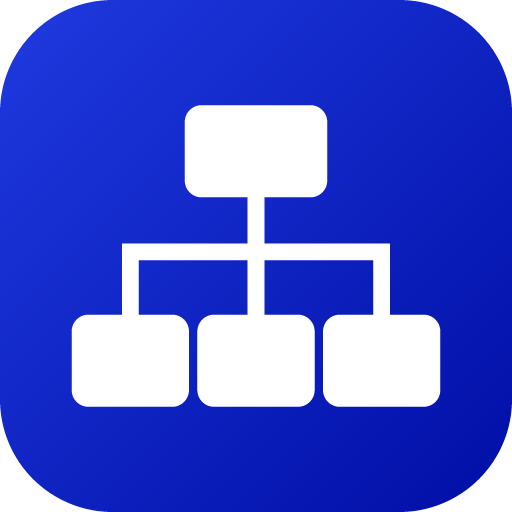
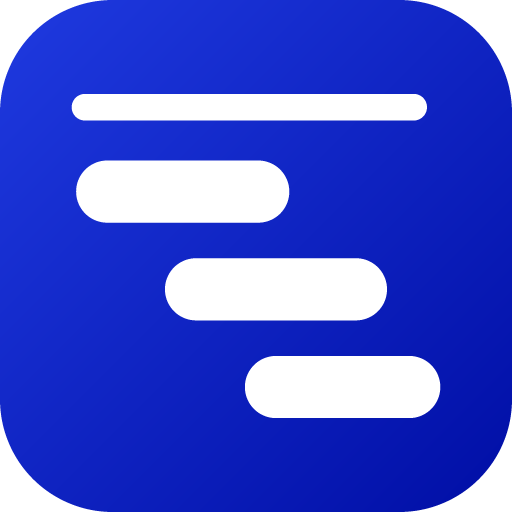
feat: WBS のアイコンをガントチャートの絵にする（task #548・ADR-0057）
Claude-Session: https://claude.ai/code/session_01NWaG72MUZheJbpsWi7qb5T

Changed region(s): [[0.125, 0.1562, 0.875, 0.8438]]

diff --git a/scripts/generate_pwa_icons.py b/scripts/generate_pwa_icons.py
@@ -1,13 +1,14 @@
-"""PWA アイコン（`frontend/public/`）を生成する（task #192・ADR-0028）。
+"""PWA アイコン（`frontend/public/`）を生成する（task #192・ADR-0028。図柄は ADR-0057）。
 
 アイコンの正本はこのスクリプト（配色と図形の座標）であり、出力物は生成結果として
 コミットする。標準ライブラリだけで PNG を書き出すため、追加の依存や外部の
 ラスタライザは要らない（CI・手元のどちらでも同じ結果になる）。雛形（fastapitemplate）の
-`scripts/generate_pwa_icons.py` と同じ作り。図柄だけが違う。
+`scripts/generate_pwa_icons.py` と同じ作り。図柄と色だけが違う。
 
     python3 scripts/generate_pwa_icons.py
 
-図柄: WBS（作業分解図）の木。上に 1 つの箱、線で下の 3 つの箱へ分かれる。
+図柄: ガントチャート。上に日付の目盛り、その下に段々に右へずれる帯 3 本（task #548。前は WBS の木だったが
+組織図に見えた）。色は画面の主色の青のまま。Tracker（緑青のストップウォッチ）・Scheduler（紫のカレンダー）と見分ける。
 
 出力:
     favicon.svg                  ブラウザのタブ用（角丸・ベクタ）
@@ -18,7 +19,8 @@
 
 画面の中の像（ログイン画面・メニューの上。`frontend/src/components/AppMark.tsx`）も
 favicon.svg をそのまま読む（ADR-0040）。図柄や色を変えるときはここだけを直して出力し直せばよく、
-画面側に同じ絵を書き起こさない。
+画面側に同じ絵を書き起こさない。⚠ 色を変えるときは `frontend/src/theme.ts` の ds.primary 系・
+`frontend/index.html` の theme-color・manifest の theme_color も揃える。
 """
 
 from __future__ import annotations
@@ -32,7 +34,7 @@ from typing import NamedTuple
 OUTPUT_DIR = Path(__file__).resolve().parent.parent / "frontend" / "public"
 
 # 配色。画面の主色（`frontend/src/theme.ts` の ds.primary = #0017C1。manifest の theme_color）を
-# 挟む形の対角グラデーション。
+# 挟む形の対角グラデーション。終わりの色は ds.primaryHover。
 GRADIENT_START = (0x1F, 0x3A, 0xE0)
 GRADIENT_END = (0x00, 0x0E, 0xA5)
 MARK_COLOR = (0xFF, 0xFF, 0xFF)
@@ -42,28 +44,46 @@ CORNER_RADIUS_RATIO = 0.22
 
 
 class Box(NamedTuple):
-    """図柄の部品 1 つ（100x100 の座標系の矩形と、その角の半径）。"""
+    """図柄の部品: 角丸の矩形（100x100 の座標系）。"""
 
     x0: float
     y0: float
     x1: float
     y1: float
     radius: float = 0.0
+    color: tuple[int, int, int] = MARK_COLOR
 
 
-# WBS の木。100x100 の座標系で定義し、各アイコンの大きさへ拡大縮小する。
-MARK_BOXES = (
-    Box(33.0, 12.0, 67.0, 34.0, 4.0),  # 上の箱（プロジェクト）
-    Box(48.0, 33.0, 52.0, 47.0),  # 上の箱から下ろす線
-    Box(18.0, 45.0, 82.0, 49.0),  # 横に渡す線
-    Box(18.0, 47.0, 22.0, 63.0),  # 左へ下ろす線
-    Box(48.0, 47.0, 52.0, 63.0),  # 中へ下ろす線
-    Box(78.0, 47.0, 82.0, 63.0),  # 右へ下ろす線
-    Box(6.0, 62.0, 34.0, 84.0, 4.0),  # 下の箱（左）
-    Box(36.0, 62.0, 64.0, 84.0, 4.0),  # 下の箱（中）
-    Box(66.0, 62.0, 94.0, 84.0, 4.0),  # 下の箱（右）
+class Ring(NamedTuple):
+    """図柄の部品: 輪（inner が 0 なら塗りつぶしの円）。"""
+
+    cx: float
+    cy: float
+    outer: float
+    inner: float = 0.0
+    color: tuple[int, int, int] = MARK_COLOR
+
+
+class Bar(NamedTuple):
+    """図柄の部品: 両端の丸い棒（(x0, y0) と (x1, y1) を結ぶ線分を half_width だけ太らせたもの）。"""
+
+    x0: float
+    y0: float
+    x1: float
+    y1: float
+    half_width: float
+    color: tuple[int, int, int] = MARK_COLOR
+
+
+Shape = Box | Ring | Bar
+
+# ガントチャート。100x100 の座標系で定義し、外接矩形を各アイコンの大きさへ拡大縮小する。
+MARK_SHAPES: tuple[Shape, ...] = (
+    Box(10.0, 12.0, 90.0, 18.0, 3.0),  # 日付の目盛り
+    Bar(18.0, 34.0, 52.0, 34.0, 7.0),  # 帯（1 つ目のタスク）
+    Bar(38.0, 56.0, 74.0, 56.0, 7.0),  # 帯（2 つ目）
+    Bar(56.0, 78.0, 86.0, 78.0, 7.0),  # 帯（3 つ目）
 )
-MARK_BOUNDS = (6.0, 12.0, 94.0, 84.0)  # 上の部品の外接矩形 (x0, y0, x1, y1)
 
 # 1 ピクセルあたりの走査点数（アンチエイリアス用のスーパーサンプリング）。
 SAMPLES_PER_AXIS = 4
@@ -90,22 +110,53 @@ ICONS = (
 )
 
 
-def _scaled_mark(size: int, width_ratio: float) -> tuple[Box, ...]:
-    """図柄の部品を、一辺 *size* のアイコン中央に置いた座標へ変換する。"""
-    bound_x0, bound_y0, bound_x1, bound_y1 = MARK_BOUNDS
-    scale = size * width_ratio / (bound_x1 - bound_x0)
+def _bounds(shape: Shape) -> tuple[float, float, float, float]:
+    """部品の外接矩形 (x0, y0, x1, y1)。"""
+    if isinstance(shape, Ring):
+        return (shape.cx - shape.outer, shape.cy - shape.outer, shape.cx + shape.outer, shape.cy + shape.outer)
+    if isinstance(shape, Bar):
+        width = shape.half_width
+        return (
+            min(shape.x0, shape.x1) - width,
+            min(shape.y0, shape.y1) - width,
+            max(shape.x0, shape.x1) + width,
+            max(shape.y0, shape.y1) + width,
+        )
+    return (shape.x0, shape.y0, shape.x1, shape.y1)
+
+
+def _mark_bounds() -> tuple[float, float, float, float]:
+    """図柄全体の外接矩形。"""
+    corners = [_bounds(shape) for shape in MARK_SHAPES]
+    return (
+        min(corner[0] for corner in corners),
+        min(corner[1] for corner in corners),
+        max(corner[2] for corner in corners),
+        max(corner[3] for corner in corners),
+    )
+
+
+def _scaled_mark(size: int, width_ratio: float) -> tuple[Shape, ...]:
+    """図柄の部品を、一辺 *size* のアイコン中央に置いた座標へ変換する（長い辺を width_ratio に合わせる）。"""
+    bound_x0, bound_y0, bound_x1, bound_y1 = _mark_bounds()
+    scale = size * width_ratio / max(bound_x1 - bound_x0, bound_y1 - bound_y0)
     offset_x = (size - (bound_x1 - bound_x0) * scale) / 2 - bound_x0 * scale
     offset_y = (size - (bound_y1 - bound_y0) * scale) / 2 - bound_y0 * scale
-    return tuple(
-        Box(
-            box.x0 * scale + offset_x,
-            box.y0 * scale + offset_y,
-            box.x1 * scale + offset_x,
-            box.y1 * scale + offset_y,
-            box.radius * scale,
-        )
-        for box in MARK_BOXES
-    )
+
+    def point(x: float, y: float) -> tuple[float, float]:
+        return (x * scale + offset_x, y * scale + offset_y)
+
+    scaled: list[Shape] = []
+    for shape in MARK_SHAPES:
+        if isinstance(shape, Ring):
+            scaled.append(Ring(*point(shape.cx, shape.cy), shape.outer * scale, shape.inner * scale, shape.color))
+        elif isinstance(shape, Bar):
+            scaled.append(
+                Bar(*point(shape.x0, shape.y0), *point(shape.x1, shape.y1), shape.half_width * scale, shape.color)
+            )
+        else:
+            scaled.append(Box(*point(shape.x0, shape.y0), *point(shape.x1, shape.y1), shape.radius * scale, shape.color))
+    return tuple(scaled)
 
 
 def _inside_box(box: Box, x: float, y: float) -> bool:
@@ -117,6 +168,20 @@ def _inside_box(box: Box, x: float, y: float) -> bool:
     near_x = min(max(x, box.x0 + box.radius), box.x1 - box.radius)
     near_y = min(max(y, box.y0 + box.radius), box.y1 - box.radius)
     return (x - near_x) ** 2 + (y - near_y) ** 2 <= box.radius**2
+
+
+def _inside(shape: Shape, x: float, y: float) -> bool:
+    """点 (*x*, *y*) が部品 *shape* の内側にあるか。"""
+    if isinstance(shape, Ring):
+        distance = (x - shape.cx) ** 2 + (y - shape.cy) ** 2
+        return shape.inner**2 <= distance <= shape.outer**2
+    if isinstance(shape, Bar):
+        dx, dy = shape.x1 - shape.x0, shape.y1 - shape.y0
+        length = dx * dx + dy * dy
+        ratio = 0.0 if length == 0 else min(max(((x - shape.x0) * dx + (y - shape.y0) * dy) / length, 0.0), 1.0)
+        near_x, near_y = shape.x0 + dx * ratio, shape.y0 + dy * ratio
+        return (x - near_x) ** 2 + (y - near_y) ** 2 <= shape.half_width**2
+    return _inside_box(shape, x, y)
 
 
 def _inside_rounded_square(size: int, radius: float, x: float, y: float) -> bool:
@@ -138,12 +203,13 @@ def _background_color(size: int, x: float, y: float) -> tuple[int, int, int]:
     )
 
 
-def _sample(spec: IconSpec, mark: tuple[Box, ...], x: float, y: float) -> tuple[int, int, int, int]:
-    """1 走査点の色。背景の外側は透明、図柄の内側は白。"""
+def _sample(spec: IconSpec, mark: tuple[Shape, ...], x: float, y: float) -> tuple[int, int, int, int]:
+    """1 走査点の色。背景の外側は透明、図柄の内側は部品の色（後に並べた部品が上）。"""
     if spec.rounded and not _inside_rounded_square(spec.size, spec.size * CORNER_RADIUS_RATIO, x, y):
         return (0, 0, 0, 0)
-    if any(_inside_box(box, x, y) for box in mark):
-        return (*MARK_COLOR, 255)
+    for shape in reversed(mark):
+        if _inside(shape, x, y):
+            return (*shape.color, 255)
     return (*_background_color(spec.size, x, y), 255)
 
 
@@ -151,7 +217,7 @@ def _sample(spec: IconSpec, mark: tuple[Box, ...], x: float, y: float) -> tuple[
 _SAMPLE_OFFSETS = tuple((index + 0.5) / SAMPLES_PER_AXIS for index in range(SAMPLES_PER_AXIS))
 
 
-def _pixel(spec: IconSpec, mark: tuple[Box, ...], column: int, row: int) -> bytes:
+def _pixel(spec: IconSpec, mark: tuple[Shape, ...], column: int, row: int) -> bytes:
     """1 ピクセルの RGBA。走査点の平均を取ってアンチエイリアスする。"""
     red = green = blue = alpha = 0
     for offset_y in _SAMPLE_OFFSETS:
@@ -167,7 +233,7 @@ def _pixel(spec: IconSpec, mark: tuple[Box, ...], column: int, row: int) -> byte
     return bytes((round(red / alpha), round(green / alpha), round(blue / alpha), round(alpha / SAMPLES_PER_AXIS**2)))
 
 
-def _pixel_row(spec: IconSpec, mark: tuple[Box, ...], row: int) -> bytearray:
+def _pixel_row(spec: IconSpec, mark: tuple[Shape, ...], row: int) -> bytearray:
     """1 行分の RGBA バイト列。"""
     line = bytearray()
     for column in range(spec.size):
@@ -206,15 +272,33 @@ def _hex_color(color: tuple[int, int, int]) -> str:
     return f"#{red:02x}{green:02x}{blue:02x}"
 
 
+def _svg_element(shape: Shape) -> str:
+    """部品 1 つを SVG の要素にする。"""
+    fill = _hex_color(shape.color)
+    if isinstance(shape, Ring):
+        if shape.inner <= 0:
+            return f'  <circle cx="{shape.cx:.1f}" cy="{shape.cy:.1f}" r="{shape.outer:.1f}" fill="{fill}"/>'
+        middle = (shape.outer + shape.inner) / 2
+        return (
+            f'  <circle cx="{shape.cx:.1f}" cy="{shape.cy:.1f}" r="{middle:.1f}" fill="none"'
+            f' stroke="{fill}" stroke-width="{shape.outer - shape.inner:.1f}"/>'
+        )
+    if isinstance(shape, Bar):
+        return (
+            f'  <line x1="{shape.x0:.1f}" y1="{shape.y0:.1f}" x2="{shape.x1:.1f}" y2="{shape.y1:.1f}"'
+            f' stroke="{fill}" stroke-width="{shape.half_width * 2:.1f}" stroke-linecap="round"/>'
+        )
+    return (
+        f'  <rect x="{shape.x0:.1f}" y="{shape.y0:.1f}" width="{shape.x1 - shape.x0:.1f}"'
+        f' height="{shape.y1 - shape.y0:.1f}" rx="{shape.radius:.1f}" fill="{fill}"/>'
+    )
+
+
 def _write_favicon_svg() -> None:
     """タブ用の favicon.svg。PNG と同じ配色・同じ図形・同じ配置をベクタで書き出す。"""
     canvas = 512
     width_ratio = ICONS[0].mark_width_ratio  # 通常アイコンと同じ大きさに合わせる
-    rects = "\n".join(
-        f'  <rect x="{box.x0:.1f}" y="{box.y0:.1f}" width="{box.x1 - box.x0:.1f}" height="{box.y1 - box.y0:.1f}"'
-        f' rx="{box.radius:.1f}" fill="{_hex_color(MARK_COLOR)}"/>'
-        for box in _scaled_mark(canvas, width_ratio)
-    )
+    elements = "\n".join(_svg_element(shape) for shape in _scaled_mark(canvas, width_ratio))
     svg = f"""<svg xmlns="http://www.w3.org/2000/svg" viewBox="0 0 {canvas} {canvas}">
   <!-- scripts/generate_pwa_icons.py が生成する。手で編集しない。 -->
   <defs>
@@ -224,7 +308,7 @@ def _write_favicon_svg() -> None:
     </linearGradient>
   </defs>
   <rect width="{canvas}" height="{canvas}" rx="{round(canvas * CORNER_RADIUS_RATIO)}" fill="url(#bg)"/>
-{rects}
+{elements}
 </svg>
 """
     (OUTPUT_DIR / "favicon.svg").write_text(svg, encoding="utf-8")

diff --git a/docs/decisions/ADR-0057-wbs-icon-is-a-gantt-chart.md b/docs/decisions/ADR-0057-wbs-icon-is-a-gantt-chart.md
@@ -1,0 +1,24 @@
+# ADR-0057: WBS のアイコンをガントチャートの絵にする
+
+- 状態: 承認
+- 日付: 2026-10-20
+- 関連: task #548、ADR-0028（アイコンの正本は scripts/generate_pwa_icons.py）・ADR-0040（画面の像は favicon.svg）、
+  Tracker（forge `kyon/nolumiatracker`）の ADR-0061・Scheduler（forge `kyon/nolumiascheduler-server`）の ADR-0057
+
+## 文脈
+
+WBS から Tracker と Scheduler を分けた（WBS の ADR-0053・0054）ので、3 つともアイコンが WBS の木、色が `#0017C1` で見分けがつかなかった。
+持ち主（2026-10-20）:「tracker と WBS サイトがほぼ一緒なので違いをつけてほしい、せめてアイコンは変えて」。
+見本を並べて選んでもらい、木は「組織図に見える。ガントチャートのイメージがいい」と言われた。
+
+## 決定（持ち主が見本から選んだ）
+
+1. **WBS の図柄はガントチャート**: 上に日付の目盛り、その下に段々に右へずれる帯 3 本（白）。
+2. **色は今の青（`#0017C1`）のまま。** Tracker は緑青 `#00695C` のストップウォッチ、Scheduler は紫 `#6A1B9A` のカレンダー。
+3. 図柄の部品に「両端の丸い棒」と「輪」を足した（3 つのリポジトリの生成スクリプトで同じ作り）。正本は今までどおり
+   `scripts/generate_pwa_icons.py` の 1 本で、画面の像（`AppMark`）は favicon.svg を読む。
+
+## 影響
+
+- タブ・ホーム画面・ログイン画面とメニューの像が変わる。画面の並びや機能は変わらない。
+- 帯の絵は WBS のものなので、Tracker のストップウォッチの文字盤は帯から針に替えた（Tracker の ADR-0061）。
